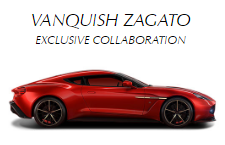
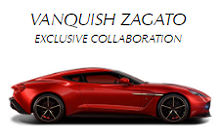
done with bootstrap

diff --git a/aston/index2.html b/aston/index2.html
@@ -4,7 +4,7 @@
 	<head>
 
 		<!-- Website Title & Description for Search Engine purposes -->
-		<title></title>
+		<title>&copy; Aston Martin</title>
 		<meta name="description" content="">
 
 		<!-- Mobile viewport optimized -->
@@ -72,76 +72,74 @@
            <div class="row" id="white">
 
              <h2>Introducing new DB9</h2>
-              <img src="images/white.jpg" alt="white" />
+              <img class="img-responsive" src="images/white.jpg" alt="white" />
            </div><!--close white-->
            <div class="row" id="portfolio">
-             <div class="col-sm-3">
-               <img src="images/p1.png" alt="vanquish volante" />
+             <div class="col-sm-3 col-xs-6">
+    <a href="http://www.astonmartin.com/cars/vanquish-volante"><img class="img-responsive" src="images/p1.png" alt="vanquish volante" /></a>
              </div><!--close col-sm-3-->
-             <div class="col-sm-3">
+             <div class="col-sm-3 col-xs-6">
 
-               <img src="images/p2.png" alt="vanquish volante" />
+<a href="http://www.astonmartin.com/en/live/news/2016/06/21/aston-martin-unveils-limited-edition-vanquish-zagato"><img class="img-responsive" src="images/p2.png" alt="vanquish volante" /></a>
              </div><!--close col-sm-3-->
-             <div class="col-sm-3">
+             <div class="col-sm-3 col-xs-6 ">
 
-               <img src="images/p3.png" alt="vanquish volante" />
+<a href="http://db11.astonmartin.com/"><img class="img-responsive" src="images/p3.png" alt="vanquish zagota" /></a>
              </div><!--close col-sm-3-->
-             <div class="col-sm-3">
-               <img src="images/p4.png" alt="vanquish volante" />
-             </div><!--close col-sm-3-->
-
-             <div class="col-sm-3">
-               <img src="images/p5.png" alt="vanquish volante" />
+             <div class="col-sm-3 col-xs-6 ">
+<a href="http://www.astonmartin.com/cars/db9-gt"><img class="img-responsive" src="images/p4.png" alt="DB 11" /></a>
              </div><!--close col-sm-3-->
 
-             <div class="col-sm-3">
-               <img src="images/p6.png" alt="vanquish volante" />
+             <div class="col-sm-3 col-xs-6">
+<a href="http://www.astonmartin.com/cars/the-vantage-range/v12-vantage-s"><img class="img-responsive" src="images/p5.png" alt="DB9 GT" /></a>
              </div><!--close col-sm-3-->
 
-             <div class="col-sm-3">
-               <img src="images/p13.png" alt="vanquish volante" />
+             <div class="col-sm-3 col-xs-6">
+<a href="http://www.astonmartin.com/cars/the-vantage-range/v12-vantage-s-roadster"><img class="img-responsive" src="images/p6.png" alt="V12 vantage s" /></a>
              </div><!--close col-sm-3-->
 
-             <div class="col-sm-3">
-               <img src="images/p8.png" alt="vanquish volante" />
+             <div class="col-sm-3 col-xs-6">
+<a href="http://www.astonmartin.com/vulcan"><img class="img-responsive" src="images/p13.png" alt="V12 vantage roadster" /></a>
              </div><!--close col-sm-3-->
 
-             <div class="col-sm-3">
-               <img src="images/p9.png" alt="vanquish volante" />
+             <div class="col-sm-3 col-xs-6">
+<a href="http://www.astonmartin.com/cars/the-vantage-range/v8-vantage-s"><img class="img-responsive" src="images/p8.png" alt="astonmartin vulcan" /> </a>
              </div><!--close col-sm-3-->
 
-             <div class="col-sm-3">
-               <img src="images/p10.png" alt="vanquish volante" />
+             <div class="col-sm-3 col-xs-6">
+<a href="http://www.astonmartin.com/en/cars/the-vantage-range/vantage-gt8"><img class="img-responsive" src="images/p9.png" alt="V8 vantage roadster" /></a>
              </div><!--close col-sm-3-->
 
-             <div class="col-sm-3">
-               <img src="images/p11.png" alt="vanquish volante" />
+             <div class="col-sm-3 col-xs-6">
+<a href="http://www.astonmartin.com/en/cars/lagonda"><img class="img-responsive" src="images/p10.png" alt="vantage GT8" /></a>
              </div><!--close col-sm-3-->
 
-             <div class="col-sm-3">
-               <img src="images/p12.png" alt="vanquish volante" />
+             <div class="col-sm-3 col-xs-6">
+<a href="http://www.astonmartin.com/cars/the-new-vanquish"><img class="img-responsive" src="images/p11.png" alt="lagonda taraf" /></a>
+             </div><!--close col-sm-3-->
+
+             <div class="col-sm-3 col-xs-6">
+<a href="http://www.astonmartin.com/cars/rapide-s"><img class="img-responsive" src="images/p12.png" alt="rapide S" /></a>
              </div><!--close col-sm-3-->
            </div><!--close portfolio-->
       </div><!--close main-->
            	 <footer>
-
-           		  <a class="img" href="/"><img src="images/Capture.PNG" alt="logo"></a>
-
-           			<div class="f5">
-           						<ul>
-           							<li><i class="fa fa-facebook fa-2x" aria-hidden="true"></i></li>
-           							<li><i class="fa fa-twitter fa-2x" aria-hidden="true"></i></li>
-           							<li><i class="fa fa-google-plus fa-2x" aria-hidden="true"></i></li>
-           							<li><i class="fa fa-apple fa-2x" aria-hidden="true"></i></li>
-           							<li><i class="fa fa-linkedin fa-2x" aria-hidden="true"></i></li>
-           							<li><i class="fa fa-youtube fa-2x" aria-hidden="true"></i></li>
-           								<li><i class="fa fa-car fa-2x" aria-hidden="true"></i></li>
-           						</ul>
-           					</div>
+            
+						 <div class="f5">
+									 <ul>
+										 <li><i class="fa fa-facebook fa-2x" aria-hidden="true"></i></li>
+										 <li><i class="fa fa-twitter fa-2x" aria-hidden="true"></i></li>
+										 <li><i class="fa fa-google-plus fa-2x" aria-hidden="true"></i></li>
+										 <li><i class="fa fa-apple fa-2x" aria-hidden="true"></i></li>
+										 <li><i class="fa fa-linkedin fa-2x" aria-hidden="true"></i></li>
+										 <li><i class="fa fa-youtube fa-2x" aria-hidden="true"></i></li>
+											 <li><i class="fa fa-car fa-2x" aria-hidden="true"></i></li>
+									 </ul>
+								 </div>
 
 
            		 <div class="container">
-                 <div class="row">
+                <div class="row">
            				 <div class="col-sm-4">
            					 <h6>&copy; Aston Martin 2016</h6>
            				 </div><!--close col-sm-2-->

diff --git a/aston/index1.html b/aston/index1.html
@@ -4,7 +4,7 @@
 	<head>
 
 		<!-- Website Title & Description for Search Engine purposes -->
-		<title></title>
+		<title>&copy; Aston Martin</title>
 		<meta name="description" content="">
 
 		<!-- Mobile viewport optimized -->
@@ -213,11 +213,12 @@
 						<li><a href="#tab2" data-toggle="tab">Newport Beach</a></li>
 					</ul>
 					<div class="tab-content">
-						<div class="tab-pane active" id="tab1">
+						<div class="tab-pane active " id="tab1">
 							<h4><span class="glyphicon glyhphicon-map-marker"></span> Aston Martin of North America<small> More like out surf spot.</small></h4>
-             <img src="images/30.png" />
 
+             <img class="img-responsive"src="images/30.png" />
 
+             <div class="para">
 							<p>Irvine, CA, 9 January 2015 - Aston Martin is set to add to the company’s dealership
 								reach across North America after finalising new dealer appointments in Minneapolis and Nashville,
 								increasing the company’s total footprint to 46 retail sites across the Americas region; part of a
@@ -241,6 +242,7 @@
 							 The establishment of these new dealer partners mean 85% of the HLS (High Luxury Sports) market in the
 							 United States now resides within 100 miles of an Aston Martin dealership.
 						 </p>
+					 </div><!--close para-->
 					 </div><!--close tab-pane-->
 					 <div class="tab-pane" id="tab2">
 						 	<h4>WELCOME TO ASTON MARTIN NEWPORT BEACH.</h4>
@@ -261,7 +263,7 @@
 									 waiting for? Schedule a test drive with one of these luxury cars today! Make sure to ask about
 									 our selection of preowned used aston martins in stock.
 						 </p>
-						 <img src="images/031.jpg" />
+						 <img class="img-responsive"src="images/031.jpg" />
 					 </div><!--close tab-pane-->
 				</div><!--close tab-content-->
 				</div><!--close tabbable-->
@@ -280,28 +282,35 @@
 			 <h4>Features.</h4>
 			 <div class="list-group">
 				 <a href="#" class="list-group-item">
-					 <h4 class="list-group-item-heading">ENGINE.</h4>
-					 <p class="list-group-item-text">Lorem ipsum dolor sit amet, consectetur adipisicing elit,
-		 				 sed do eiusmod tempor incididunt ut labore et dolore magna aliqua.</p>
+					 <h4 class="list-group-item-heading">ENGINE.<small>AN ALL NEW ENGINE AM11</small></h4>
+					 <p class="list-group-item-text">The New DB9 is powered by our all-new AM11 engine,
+						  the most powerful in DB9's history. Its 6.0-litre capacity delivers 517 PS,
+							 a 0-62 mph time of just 4.6 secs and 620 Nm of torque - a 10% increase on our previous model..</p>
 				 </a>
 				 <a href="#" class="list-group-item">
-	        <h4 class="list-group-item-heading">DESIGN.</h4>
-					<p class="list-group-item-text">Lorem ipsum dolor sit amet, consectetur adipisicing elit,
-						 sed do eiusmod tempor incididunt ut labore et dolore magna aliqua.</p>
+	        <h4 class="list-group-item-heading">DESIGN.<small>DRIVEN BY DESIGN</small></h4>
+					<p class="list-group-item-text">The New DB9 was not driven by legislation,
+						but by design. A key principle: simplicity. We didn’t use heavy,
+						bulky architecture and systems, we created discreet solutions, elegant solutions,
+						 Aston Martin solutions..</p>
 				 </a>
 
 				 <a href="#" class="list-group-item">
-					 <h4 class="list-group-item-heading">INTERIOR.</h4>
-					 <p class="list-group-item-text">Lorem ipsum dolor sit amet, consectetur adipisicing elit,
-		 				 sed do eiusmod tempor incididunt ut labore et dolore magna aliqua.</p>
+					 <h4 class="list-group-item-heading">STANDARD EQUIPMENT.<small>NOT NOISE.
+JUST SOUND</small></h4>
+					 <p class="list-group-item-text">Like the near-perfect structural balance of DB9
+						  we’ve also achieved a perfect balance of interior and exterior sound.
+							The New AM11 engine is tuned specifically by Aston Martin sound engineers
+							 to make for the best driving experience.</p>
 				 </a>
 			 </div><!--close list-group-->
-			 <h5>A small heading</h5>
-			 <p>Lorem ipsum dolor sit amet, consectetur adipisicing elit,
-					sed do eiusmod tempor incididunt ut labore et dolore magna aliqua.
-					Ut enim ad minim veniam, quis nostrud exercitation ullamco laboris nisi ut aliquip ex ea commodo consequat.
-					Duis aute irure dolor in reprehenderit in voluptate velit esse cillum dolore eu fugiat nulla pariatur.
-					Excepteur sint occaecat cupidatat non proident, sunt in culpa qui officia deserunt mollit anim id est laborum.
+			 <h5>BREAKTHROUGH SUSPENSION TECHNOLOGY</h5>
+			 <p>To create a car which felt and performed better than the
+				  previous DB9 we engineered a new suspension system, Gen4, for the New DB9.
+					Aston Martin engineers delivered breakthrough technology with a state-of-the-art
+					 three stage Adaptive Damping System (ADS). 'Normal' 'Sport' and
+					 'Track' modes allow the driver to tailor the New DB9 to their personal
+					 preference with instant adjustments to conditions, road surface and speed.
 			</p>
 			</div><!--close col-sm-6-->
 
@@ -347,19 +356,19 @@
 
 
 	<footer>
-		<a class="img" href="/"><img src="images/Capture.PNG" alt="logo"></a>
+		
 
-		<div class="f5">
-					<ul>
-						<li><i class="fa fa-facebook fa-2x" aria-hidden="true"></i></li>
-						<li><i class="fa fa-twitter fa-2x" aria-hidden="true"></i></li>
-						<li><i class="fa fa-google-plus fa-2x" aria-hidden="true"></i></li>
-						<li><i class="fa fa-apple fa-2x" aria-hidden="true"></i></li>
-						<li><i class="fa fa-linkedin fa-2x" aria-hidden="true"></i></li>
-						<li><i class="fa fa-youtube fa-2x" aria-hidden="true"></i></li>
-							<li><i class="fa fa-car fa-2x" aria-hidden="true"></i></li>
-					</ul>
-				</div>
+		 <div class="f5">
+ 					<ul>
+ 						<li><i class="fa fa-facebook fa-2x" aria-hidden="true"></i></li>
+ 						<li><i class="fa fa-twitter fa-2x" aria-hidden="true"></i></li>
+ 						<li><i class="fa fa-google-plus fa-2x" aria-hidden="true"></i></li>
+ 						<li><i class="fa fa-apple fa-2x" aria-hidden="true"></i></li>
+ 						<li><i class="fa fa-linkedin fa-2x" aria-hidden="true"></i></li>
+ 						<li><i class="fa fa-youtube fa-2x" aria-hidden="true"></i></li>
+ 							<li><i class="fa fa-car fa-2x" aria-hidden="true"></i></li>
+ 					</ul>
+ 				</div>
 
 
 	 <div class="container">

diff --git a/aston/index.html b/aston/index.html
@@ -4,7 +4,7 @@
 	<head>
 
 		<!-- Website Title & Description for Search Engine purposes -->
-		<title></title>
+		<title>&copy; Aston Martin</title>
 		<meta name="description" content="">
 
 		<!-- Mobile viewport optimized -->
@@ -67,7 +67,7 @@
 					 </div><!--close container-->
 				 </div><!--close navbar-->
 
-		<div class="carousel slide" id="mycarousel">
+		<div class="carousel slide" id="mycarousel" data-interval="false">
 			<ol class="carousel-indicators">
 				<li class="active" data-slide-to="0" data-target="#mycarousel"></li>
 				<li data-slide-to="1" data-target="#mycarousel"></li>
@@ -81,7 +81,7 @@
 			</div><!--close item-->
 
 			<div class="item" id="slide2">
-		<iframe width="100%" height="100%" src="https://www.youtube.com/embed/L7iCizgzjiQ?&loop=1&playlist=FzmKf_amn8I" frameborder="0" allowfullscreen></iframe>
+		<iframe width="100%" height="100%" src="https://www.youtube.com/embed/L7iCizgzjiQ" frameborder="0" allowfullscreen></iframe>
 		</div><!--close item-->
 
 		<div class="item" id="slide3">
@@ -122,7 +122,7 @@
 
 	 <footer>
 
-		  <a class="img" href="/"><img src="images/Capture.PNG" alt="logo"></a>
+
 
 			<div class="f5">
 						<ul>

diff --git a/aston/includes/css/styles.css b/aston/includes/css/styles.css
@@ -24,9 +24,7 @@ Notes:	 Hand coded for Udemy.com
    footer .f1{
      text-align: center;
    }
-footer img{
- padding-left: 600px;
-}
+
 #features {
   text-align: center;
   color: grey;
@@ -56,17 +54,15 @@ footer img{
 }
 .list-group-item{
   background-color:black;
-  color: #CCCCCC
+  color: grey;
 }
  .thumbnail{
   background-color: black;
-  color: #CCCCCC;
+  color: grey;
   text-align: center;
 }
-.tab11{
-  background: url('../../images/30.png') no-repeat;
 
-}
+
 
 /* --------------------------------------
    Typography
@@ -102,6 +98,7 @@ width: 200px;
 .navbar{
   background: black;
 
+
 }
 .collapse{
   margin-top: 10px;
@@ -131,7 +128,9 @@ height: 600px;
   margin-right: auto;
   color: #333;
   text-align: center;
-
+}
+#white h2{
+  font-style: oblique;
 }
 /* --------------------------------------
    Media Queries
@@ -150,9 +149,9 @@ height: 600px;
 
 @media (max-width: 480px) {
   .image{
-    background: url('../../images/xs.jpg') no-repeat;
-    height: 150px;
-    width: 300px;
+    background: url('../../images/xs1.jpg') no-repeat;
+    height: 200px;
+    width: 400px;
   }
 
 }
